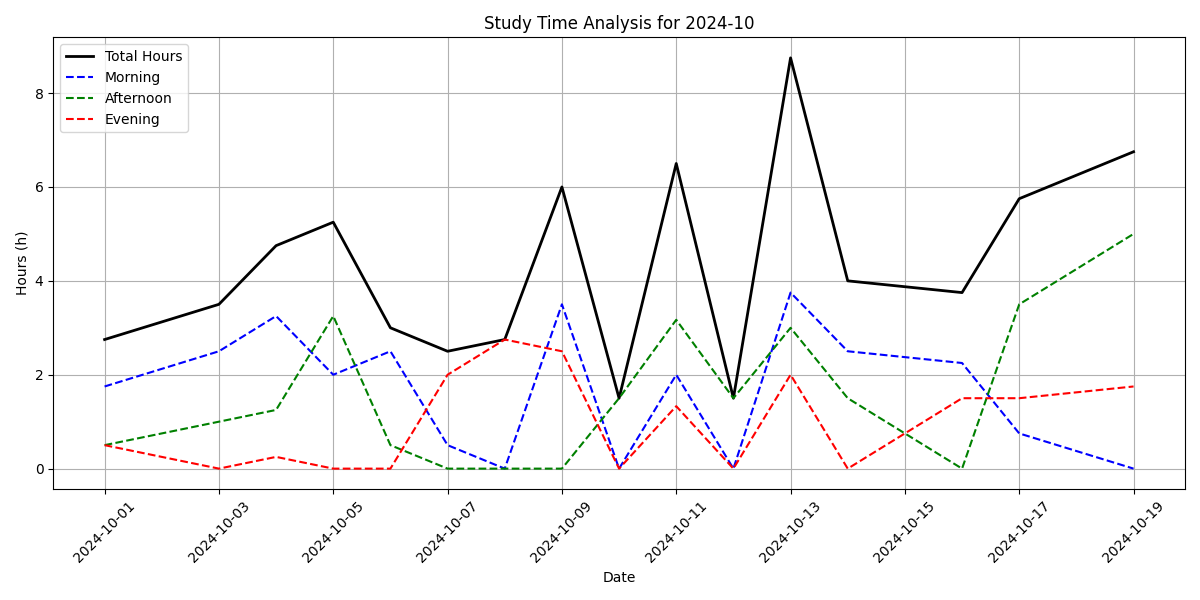
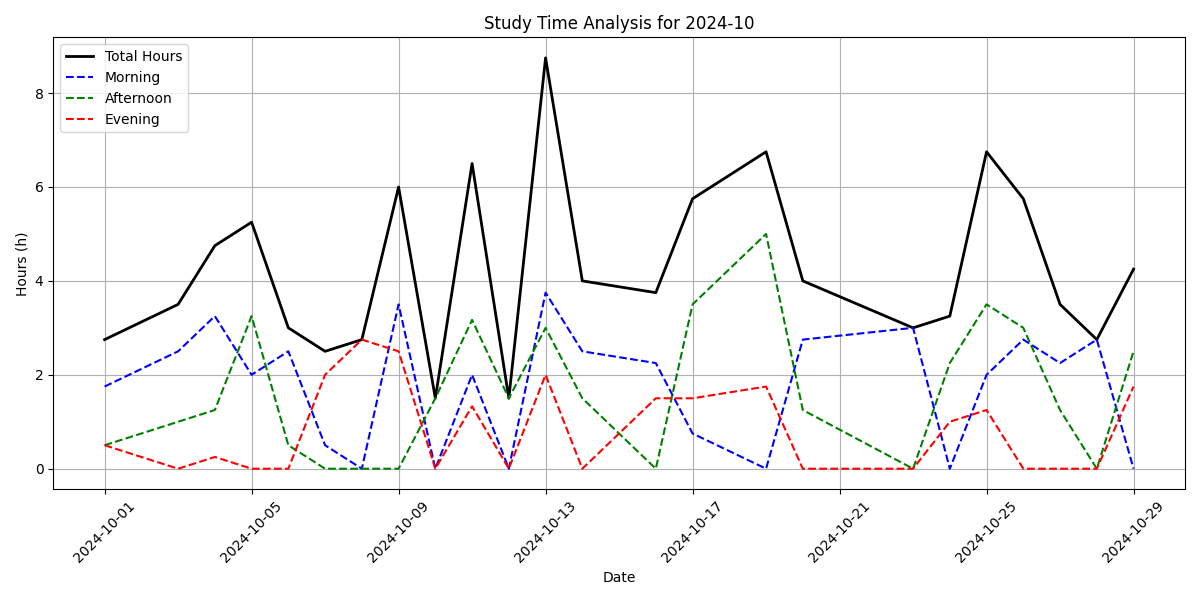
更新记录的导出文件

diff --git a/data/学习时长_export.md b/data/学习时长_export.md
@@ -3,58 +3,66 @@
 
 <div class="time-table">
 
-| 日期         | 时间段                                  |    上 |    下 |    晚 |   总时长(h) | 备注                |
-|:-----------|:-------------------------------------|-----:|-----:|-----:|---------:|:------------------|
-| 2024-09-07 | 18:15-20:30                          | 0    | 0    | 2.25 |     2.25 |                   |
-| 2024-09-08 | 9:30-11:30, 14:20-17:00, 17:40-19:00 | 2    | 2.67 | 1.33 |     6    |                   |
-| 2024-09-09 | 16:15-17:25, 18:00-20:25             | 0    | 1.17 | 2.42 |     3.58 |                   |
-| 2024-09-10 | 18:00-20:20                          | 0    | 0    | 2.33 |     2.33 |                   |
-| 2024-09-11 | 9:45-11:15, 18:50-21:20              | 1.5  | 0    | 2.5  |     4    |                   |
-| 2024-09-12 | 15:00-17:10, 17:40-20:15             | 0    | 2.17 | 2.58 |     4.75 |                   |
-| 2024-09-13 | 13:45-15:25                          | 0    | 1.67 | 0    |     1.67 |                   |
-| 2024-09-14 | 16:15-17:00, 17:45-18:40             | 0    | 0.75 | 0.92 |     1.67 |                   |
-| 2024-09-15 | 8:25-11:25, 14:30-17:00, 17:30-20:00 | 3    | 2.5  | 2.5  |     8    |                   |
-| 2024-09-16 | 8:00-11:15, 14:30-17:00, 17:30-18:30 | 3.25 | 2.5  | 1    |     6.75 |                   |
-| 2024-09-17 | 9:45-11:00, 18:10-21:05              | 1.25 | 0    | 2.92 |     4.17 |                   |
-| 2024-09-18 | 7:40-11:30                           | 3.83 | 0    | 0    |     3.83 |                   |
-| 2024-09-19 | 17:30-21:40                          | 0    | 0    | 4.17 |     4.17 |                   |
-| 2024-09-20 | 9:45-11:15, 14:40-17:10              | 1.5  | 2.5  | 0    |     4    |                   |
-| 2024-09-21 | 8:30-11:15, 13:55-17:15              | 2.75 | 3.33 | 0    |     6.08 | 汤家凤高数一轮, 63.25h   |
-| 2024-09-21 | 18:00-19:15                          | 0    | 0    | 1.25 |     1.25 |                   |
-| 2024-09-22 | 8:30-11:00, 14:00-17:20              | 2.5  | 3.33 | 0    |     5.83 |                   |
-| 2024-09-23 | 16:15-17:00, 17:30-19:30             | 0    | 0.75 | 2    |     2.75 |                   |
-| 2024-09-24 | 18:50-20:20                          | 0    | 0    | 1.5  |     1.5  |                   |
-| 2024-09-25 | 9:00-11:30, 18:20-20:35              | 2.5  | 0    | 2.25 |     4.75 | 复习全书基础篇线代一轮15.08h |
-| 2024-09-25 | 20:35-21:05                          | 0    | 0    | 0.5  |     0.5  |                   |
-| 2024-09-26 | 14:00-17:00                          | 0    | 3    | 0    |     3    |                   |
-| 2024-09-27 | 10:05-11:35, 14:00-16:00             | 1.5  | 2    | 0    |     3.5  | 复习全书基础篇概率一轮6h     |
-| 2024-09-28 | 13:30-17:15                          | 0    | 3.75 | 0    |     3.75 |                   |
-| 2024-09-29 | 9:50-11:20                           | 1.5  | 0    | 0    |     1.5  | 复习全书线性代数进阶题5.25h  |
-| 2024-09-29 | 14:30-17:00, 17:45-19:15             | 0    | 2.5  | 1.5  |     4    |                   |
-| 2024-09-30 | 16:15-16:45                          | 0    | 0.5  | 0    |     0.5  | 复习全书线性代数进阶题4.5h   |
-| 2024-10-01 | 9:15-11:00, 17:00-18:00              | 1.75 | 0.5  | 0.5  |     2.75 |                   |
-| 2024-10-03 | 9:00-11:30                           | 2.5  | 0    | 0    |     2.5  |                   |
-| 2024-10-03 | 16:00-17:00                          | 0    | 1    | 0    |     1    |                   |
-| 2024-10-04 | 8:00-11:15, 14:00-14:45              | 3.25 | 0.75 | 0    |     4    |                   |
-| 2024-10-04 | 14:45-15:15, 19:10-19:25             | 0    | 0.5  | 0.25 |     0.75 |                   |
-| 2024-10-05 | 8:45-10:45, 13:50-15:50              | 2    | 2    | 0    |     4    |                   |
-| 2024-10-05 | 15:50-17:05                          | 0    | 1.25 | 0    |     1.25 |                   |
-| 2024-10-06 | 9:30-12:00, 14:45-15:15              | 2.5  | 0.5  | 0    |     3    |                   |
-| 2024-10-07 | 10:00-10:30, 17:45-19:45             | 0.5  | 0    | 2    |     2.5  |                   |
-| 2024-10-08 | 18:30-21:15                          | 0    | 0    | 2.75 |     2.75 |                   |
-| 2024-10-09 | 8:00-10:30                           | 2.5  | 0    | 0    |     2.5  |                   |
-| 2024-10-09 | 10:30-11:30, 18:00-20:30             | 1    | 0    | 2.5  |     3.5  |                   |
-| 2024-10-10 | 15:30-17:00                          | 0    | 1.5  | 0    |     1.5  |                   |
-| 2024-10-11 | 9:45-11:45, 13:50-17:00, 17:30-18:50 | 2    | 3.17 | 1.33 |     6.5  |                   |
-| 2024-10-12 | 15:45-17:15                          | 0    | 1.5  | 0    |     1.5  |                   |
-| 2024-10-13 | 7:45-9:00, 19:10-19:40               | 1.25 | 0    | 0.5  |     1.75 |                   |
-| 2024-10-13 | 9:00-11:30, 14:00-17:00, 17:40-19:10 | 2.5  | 3    | 1.5  |     7    |                   |
-| 2024-10-14 | 8:45-10:45                           | 2    | 0    | 0    |     2    |                   |
-| 2024-10-14 | 10:45-11:15, 15:45-17:15             | 0.5  | 1.5  | 0    |     2    |                   |
-| 2024-10-16 | 9:00-11:15, 20:15-21:00              | 2.25 | 0    | 0.75 |     3    |                   |
-| 2024-10-16 | 21:00-21:45                          | 0    | 0    | 0.75 |     0.75 |                   |
-| 2024-10-17 | 8:20-9:05, 13:45-17:15, 17:45-19:15  | 0.75 | 3.5  | 1.5  |     5.75 |                   |
-| 2024-10-19 | 12:00-17:00, 17:45-19:30             | 0    | 5    | 1.75 |     6.75 |                   |
+| 日期         | 时间段                                                            |    上 |    下 |    晚 |   总时长(h) | 备注                |
+|:-----------|:---------------------------------------------------------------|-----:|-----:|-----:|---------:|:------------------|
+| 2024-09-07 | 18:15-20:30                                                    | 0    | 0    | 2.25 |     2.25 |                   |
+| 2024-09-08 | 9:30-11:30, 14:20-17:00, 17:40-19:00                           | 2    | 2.67 | 1.33 |     6    |                   |
+| 2024-09-09 | 16:15-17:25, 18:00-20:25                                       | 0    | 1.17 | 2.42 |     3.58 |                   |
+| 2024-09-10 | 18:00-20:20                                                    | 0    | 0    | 2.33 |     2.33 |                   |
+| 2024-09-11 | 9:45-11:15, 18:50-21:20                                        | 1.5  | 0    | 2.5  |     4    |                   |
+| 2024-09-12 | 15:00-17:10, 17:40-20:15                                       | 0    | 2.17 | 2.58 |     4.75 |                   |
+| 2024-09-13 | 13:45-15:25                                                    | 0    | 1.67 | 0    |     1.67 |                   |
+| 2024-09-14 | 16:15-17:00, 17:45-18:40                                       | 0    | 0.75 | 0.92 |     1.67 |                   |
+| 2024-09-15 | 8:25-11:25, 14:30-17:00, 17:30-20:00                           | 3    | 2.5  | 2.5  |     8    |                   |
+| 2024-09-16 | 8:00-11:15, 14:30-17:00, 17:30-18:30                           | 3.25 | 2.5  | 1    |     6.75 |                   |
+| 2024-09-17 | 9:45-11:00, 18:10-21:05                                        | 1.25 | 0    | 2.92 |     4.17 |                   |
+| 2024-09-18 | 7:40-11:30                                                     | 3.83 | 0    | 0    |     3.83 |                   |
+| 2024-09-19 | 17:30-21:40                                                    | 0    | 0    | 4.17 |     4.17 |                   |
+| 2024-09-20 | 9:45-11:15, 14:40-17:10                                        | 1.5  | 2.5  | 0    |     4    |                   |
+| 2024-09-21 | 8:30-11:15, 13:55-17:15                                        | 2.75 | 3.33 | 0    |     6.08 | 汤家凤高数一轮, 63.25h   |
+| 2024-09-21 | 18:00-19:15                                                    | 0    | 0    | 1.25 |     1.25 |                   |
+| 2024-09-22 | 8:30-11:00, 14:00-17:20                                        | 2.5  | 3.33 | 0    |     5.83 |                   |
+| 2024-09-23 | 16:15-17:00, 17:30-19:30                                       | 0    | 0.75 | 2    |     2.75 |                   |
+| 2024-09-24 | 18:50-20:20                                                    | 0    | 0    | 1.5  |     1.5  |                   |
+| 2024-09-25 | 9:00-11:30, 18:20-20:35                                        | 2.5  | 0    | 2.25 |     4.75 | 复习全书基础篇线代一轮15.08h |
+| 2024-09-25 | 20:35-21:05                                                    | 0    | 0    | 0.5  |     0.5  |                   |
+| 2024-09-26 | 14:00-17:00                                                    | 0    | 3    | 0    |     3    |                   |
+| 2024-09-27 | 10:05-11:35, 14:00-16:00                                       | 1.5  | 2    | 0    |     3.5  | 复习全书基础篇概率一轮6h     |
+| 2024-09-28 | 13:30-17:15                                                    | 0    | 3.75 | 0    |     3.75 |                   |
+| 2024-09-29 | 9:50-11:20                                                     | 1.5  | 0    | 0    |     1.5  | 复习全书线性代数进阶题5.25h  |
+| 2024-09-29 | 14:30-17:00, 17:45-19:15                                       | 0    | 2.5  | 1.5  |     4    |                   |
+| 2024-09-30 | 16:15-16:45                                                    | 0    | 0.5  | 0    |     0.5  | 复习全书线性代数进阶题4.5h   |
+| 2024-10-01 | 9:15-11:00, 17:00-18:00                                        | 1.75 | 0.5  | 0.5  |     2.75 |                   |
+| 2024-10-03 | 9:00-11:30                                                     | 2.5  | 0    | 0    |     2.5  |                   |
+| 2024-10-03 | 16:00-17:00                                                    | 0    | 1    | 0    |     1    |                   |
+| 2024-10-04 | 8:00-11:15, 14:00-14:45                                        | 3.25 | 0.75 | 0    |     4    |                   |
+| 2024-10-04 | 14:45-15:15, 19:10-19:25                                       | 0    | 0.5  | 0.25 |     0.75 |                   |
+| 2024-10-05 | 8:45-10:45, 13:50-15:50                                        | 2    | 2    | 0    |     4    |                   |
+| 2024-10-05 | 15:50-17:05                                                    | 0    | 1.25 | 0    |     1.25 |                   |
+| 2024-10-06 | 9:30-12:00, 14:45-15:15                                        | 2.5  | 0.5  | 0    |     3    |                   |
+| 2024-10-07 | 10:00-10:30, 17:45-19:45                                       | 0.5  | 0    | 2    |     2.5  |                   |
+| 2024-10-08 | 18:30-21:15                                                    | 0    | 0    | 2.75 |     2.75 |                   |
+| 2024-10-09 | 8:00-10:30                                                     | 2.5  | 0    | 0    |     2.5  |                   |
+| 2024-10-09 | 10:30-11:30, 18:00-20:30                                       | 1    | 0    | 2.5  |     3.5  |                   |
+| 2024-10-10 | 15:30-17:00                                                    | 0    | 1.5  | 0    |     1.5  |                   |
+| 2024-10-11 | 9:45-11:45, 13:50-17:00, 17:30-18:50                           | 2    | 3.17 | 1.33 |     6.5  |                   |
+| 2024-10-12 | 15:45-17:15                                                    | 0    | 1.5  | 0    |     1.5  |                   |
+| 2024-10-13 | 7:45-9:00, 19:10-19:40                                         | 1.25 | 0    | 0.5  |     1.75 |                   |
+| 2024-10-13 | 9:00-11:30, 14:00-17:00, 17:40-19:10                           | 2.5  | 3    | 1.5  |     7    |                   |
+| 2024-10-14 | 8:45-10:45                                                     | 2    | 0    | 0    |     2    |                   |
+| 2024-10-14 | 10:45-11:15, 15:45-17:15                                       | 0.5  | 1.5  | 0    |     2    |                   |
+| 2024-10-16 | 9:00-11:15, 20:15-21:00                                        | 2.25 | 0    | 0.75 |     3    |                   |
+| 2024-10-16 | 21:00-21:45                                                    | 0    | 0    | 0.75 |     0.75 |                   |
+| 2024-10-17 | 8:20-9:05, 13:45-17:15, 17:45-19:15                            | 0.75 | 3.5  | 1.5  |     5.75 |                   |
+| 2024-10-19 | 12:00-17:00, 17:45-19:30                                       | 0    | 5    | 1.75 |     6.75 |                   |
+| 2024-10-20 | 8:30-10:30, 10:30-11:15, 16:15-17:30                           | 2.75 | 1.25 | 0    |     4    |                   |
+| 2024-10-23 | 8:30-10:15, 10:15-11:30                                        | 3    | 0    | 0    |     3    | 全书高数基础篇           |
+| 2024-10-24 | 14:40-16:55, 17:30-18:30                                       | 0    | 2.25 | 1    |     3.25 | 1800高数基础篇         |
+| 2024-10-25 | 9:15-11:15, 13:30-14:30, 14:30-17:00, 17:30-18:15, 18:15-18:45 | 2    | 3.5  | 1.25 |     6.75 |                   |
+| 2024-10-26 | 8:45-10:45, 10:45-11:30, 14:00-15:00, 15:00-16:30, 16:30-17:00 | 2.75 | 3    | 0    |     5.75 |                   |
+| 2024-10-27 | 9:15-11:30, 15:40-16:55                                        | 2.25 | 1.25 | 0    |     3.5  | 杨超线代139基础篇        |
+| 2024-10-28 | 8:40-11:25                                                     | 2.75 | 0    | 0    |     2.75 |                   |
+| 2024-10-29 | 14:30-16:45, 17:15-18:30, 18:30-19:15                          | 0    | 2.5  | 1.75 |     4.25 | 1800线代基础篇         |
 
 </div>
 

diff --git a/data/学习时长.md b/data/学习时长.md
@@ -4,7 +4,7 @@
 <div class="time-table">
 
 | 日期 | 时间段 | 备注 |
-| --- | --- | --- |
+| --- | --- | - |
 | 9.7 | 18:15-20:30 | |
 | 9.8 | 9:30-11:30, 14:20-17:00, 17:40-19:00 | |
 | 9.9 | 16:15-17:25, 18:00-20:25 | |
@@ -14,7 +14,7 @@
 | 9.13 | 13:45-15:25 | |
 | 9.14 | 16:15-17:00, 17:45-18:40 | |
 | 9.15 | 8:25-11:25, 14:30-17:00, 17:30-20:00 | |
-| 9.16 | 8:00-11:15, 14:30-17:00, 17:30-18:30 |  |
+| 9.16 | 8:00-11:15, 14:30-17:00, 17:30-18:30 | |
 | 9.17 | 9:45-11:00, 18:10-21:05 | |
 | 9.18 | 7:40-11:30 | |
 | 9.19 | 17:30-21:40 | |
@@ -55,6 +55,19 @@
 | 10.16 | 21:00-21:45 | |
 | 10.17 | 8:20-9:05, 13:45-17:15, 17:45-19:15 | |
 | 10.19 | 12:00-17:00, 17:45-19:30 | |
+| 10.20 | 8:30-10:30, 10:30-11:15, 16:15-17:30 | |
+| 10.23 | 8:30-10:15, 10:15-11:30 | 全书高数基础篇 |
+| 10.24 | 14:40-16:55, 17:30-18:30 | 1800高数基础篇 |
+| 10.25 | 9:15-11:15, 13:30-14:30, 14:30-17:00, 17:30-18:15, 18:15-18:45 | |
+| 10.26 | 8:45-10:45, 10:45-11:30, 14:00-15:00, 15:00-16:30, 16:30-17:00 | |
+| 10.27 | 9:15-11:30, 15:40-16:55 | 杨超线代139基础篇 |
+| 10.28 | 8:40-11:25 | |
+| 10.29 | 14:30-16:45, 17:15-18:30, 18:30-19:15 | 1800线代基础篇 |
+
+
+
+
+
 
 </div>
 

diff --git a/data/正确率.md b/data/正确率.md
@@ -22,6 +22,7 @@
 | 书名 | 次数 | 时间 | 全书 | 行列式 | 矩阵 | 向量 | 线性方程组 | 特征值 | 二次型 |
 | --- | --- | --- | --- | --- | --- | --- | --- | --- | --- |
 | 复习全书基础篇 | 一刷 | 9.21-9.25 | 133/159=83.6% | 15/18=83.3% | 34/46=94.4% | 19/28=67.9% | 20/23=87.0% | 25/32=78.1% | 20/22=91.0% | 
+| 1800基础篇 | 一刷 | 10.25-10.29 | 142/209=67.9% | 16/17=94.1% | 34/51=66.7% | 22/27=81.5% | 21/30=70% | 29/54=53.7% | 20/30=66.7% |
 
 </div>
 

diff --git a/data/书籍购买.md b/data/书籍购买.md
@@ -82,5 +82,7 @@
 ## 1.3 英语
 
 | 名称 | 年份 | 一刷时间 | 价格 | 备注 |
+| --- | --- | --- | --- | --- |
 | 新航道真题同源阅读100 | 2026 | - | 15 | - |
 | 新东方阅读100基础+强化 | 2025 | - | 21 | - |
+
